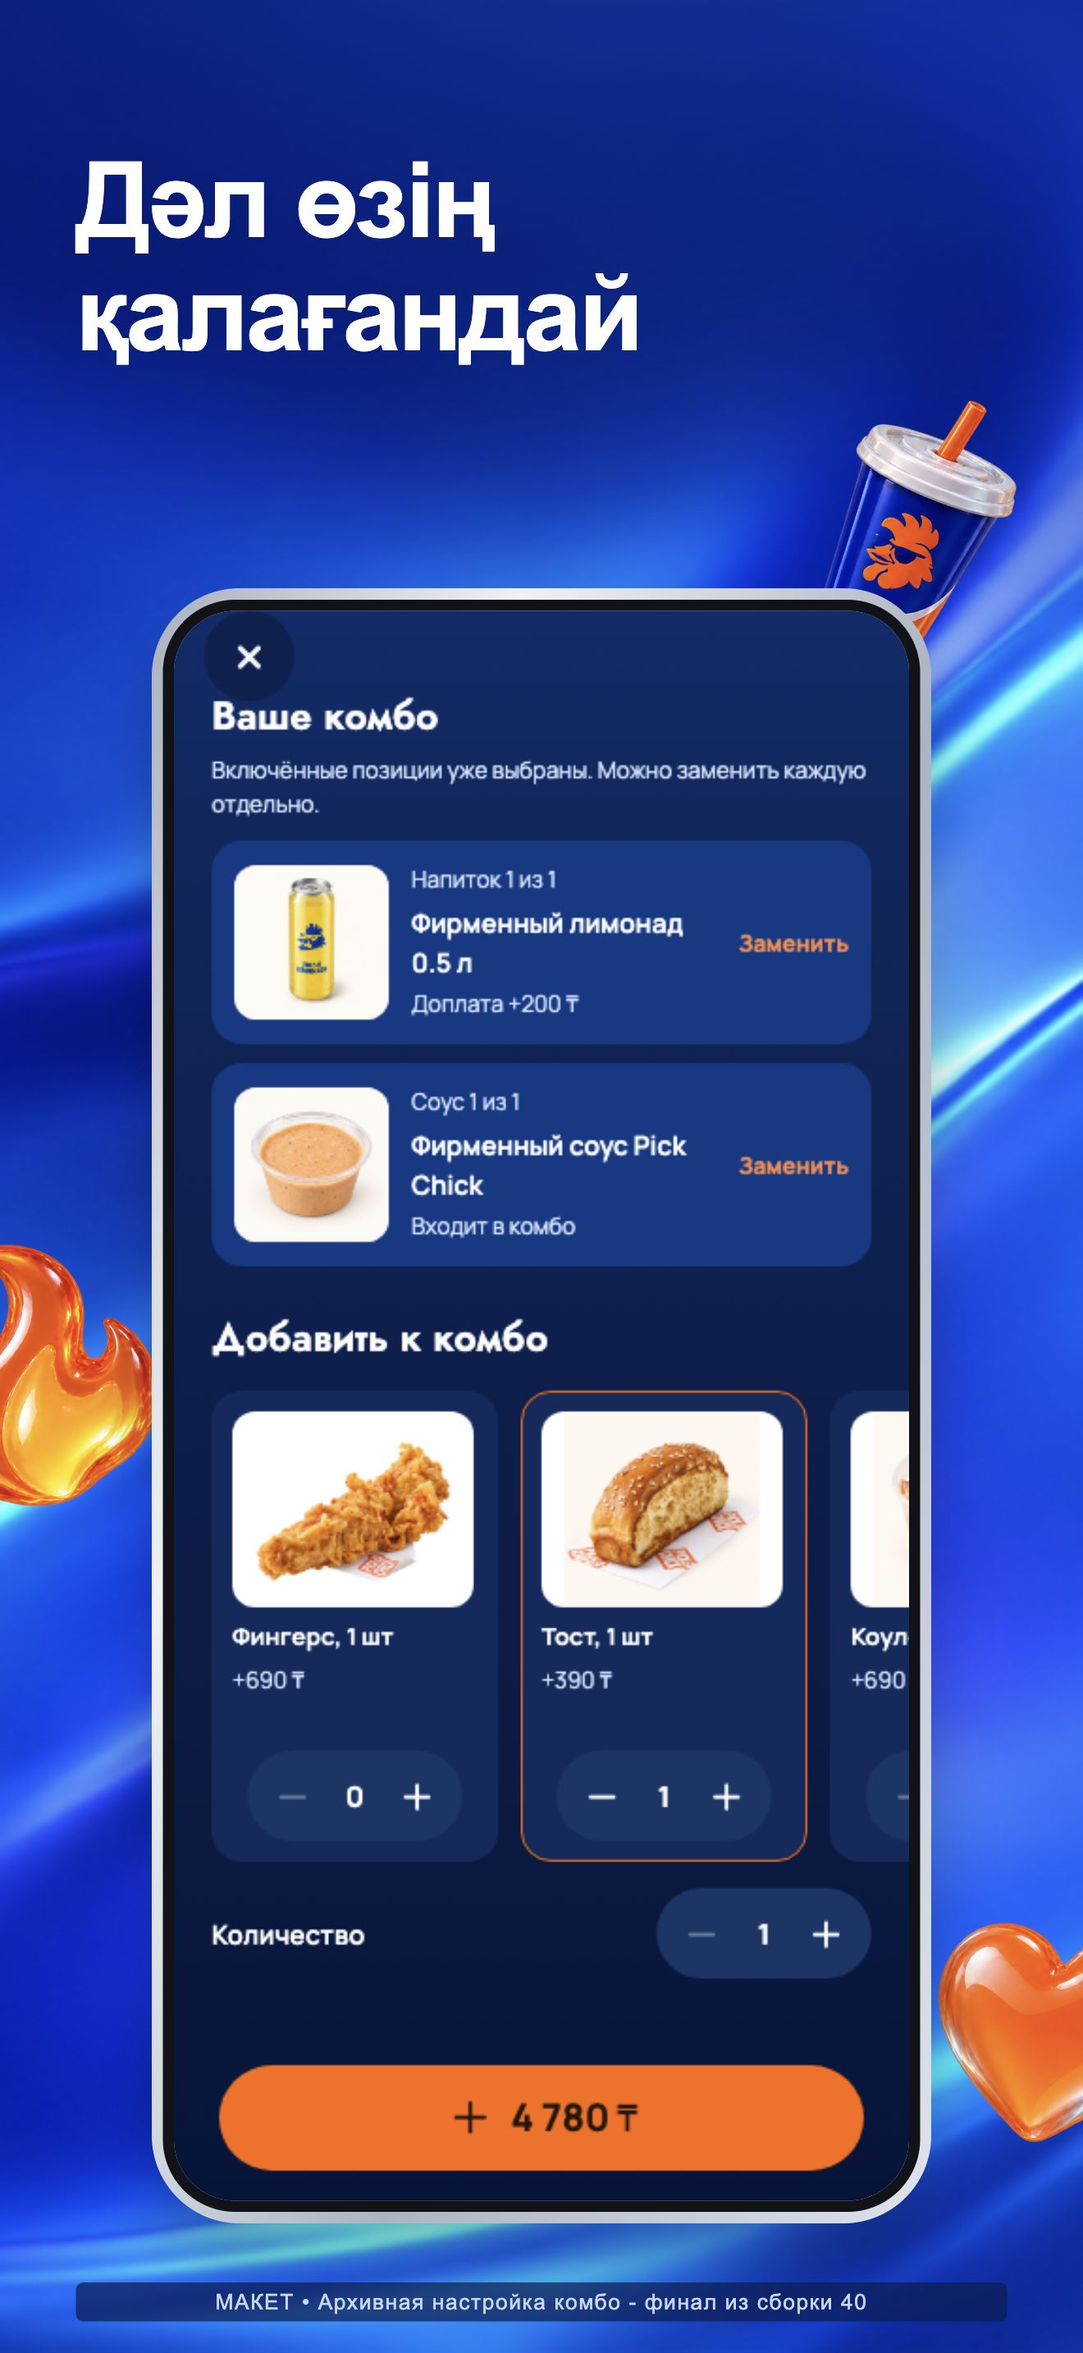
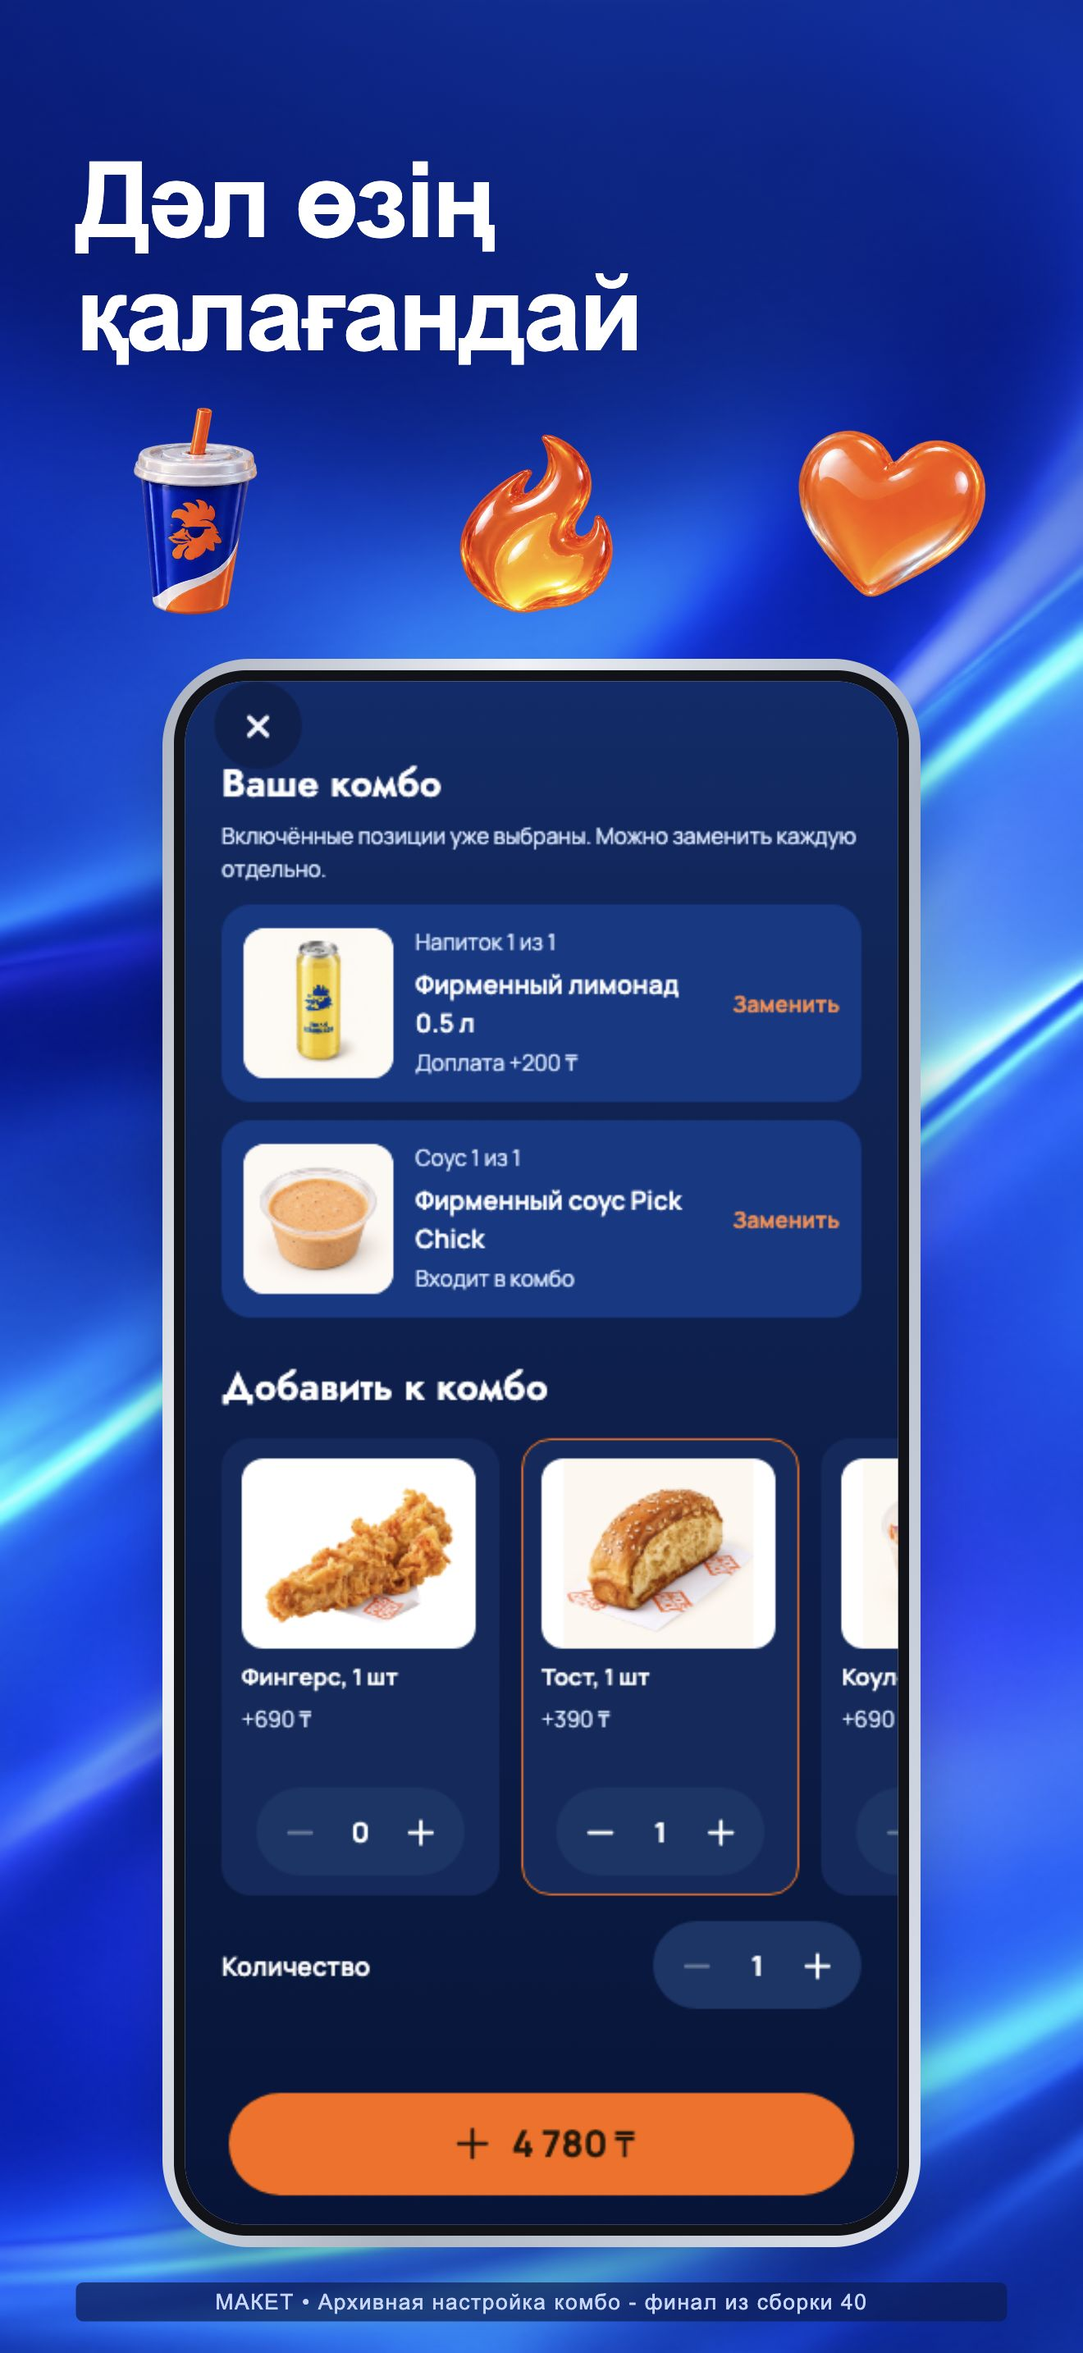
docs: keep screenshot stickers fully visible above phones

Changed region(s): [[0.0, 0.1552, 1.0, 0.962]]

diff --git a/docs/operations/appstore-refresh-1117/screenshots-preview-1118/index.html b/docs/operations/appstore-refresh-1117/screenshots-preview-1118/index.html
@@ -123,9 +123,9 @@
       .phone {
         position: absolute;
         z-index: 2;
-        width: 72%;
-        left: 14%;
-        top: 25%;
+        width: 70%;
+        left: 15%;
+        top: 28%;
         padding: 1.05cqw;
         border-radius: 8.1cqw;
         background: linear-gradient(110deg, #a8b0be, #eef1f6 27%, #aab4c3 60%, #dde3ed);
@@ -145,7 +145,7 @@
       }
       .motif {
         position: absolute;
-        z-index: 1;
+        z-index: 4;
         aspect-ratio: 1;
         background-image: url('art/brand-figures.png');
         background-size: 300% 200%;

diff --git a/docs/operations/appstore-refresh-1117/screenshots-preview-1118/README.md b/docs/operations/appstore-refresh-1117/screenshots-preview-1118/README.md
@@ -23,9 +23,9 @@ python3 -m http.server 8876 --bind 127.0.0.1 --directory /private/tmp/pickchick-
 
 ## Оформление и ограничения
 
-Актуальный фон - синий шелковистый перелив с бирюзовыми и фиолетовыми отражениями. По просьбе владельца коробка и стопка игровых коробок заменены фингерсами и бургером из каталога приложения. Остальные мотивы - Алекс в очках, пламя, стакан и сердце. На каждом кадре три разных мотива, расположенных за экраном. Принцип размещения изучен по Drinkit, персонажи и мотивы созданы для Pick Chick. Еда взята из существующих catalog-cutouts без изменений: фингерсы - ранее созданная иллюстрация каталога, бургер - материал макета владельца. Это не новая фотосъёмка. [Происхождение и хеши](art/provenance.json), [промпты](art/prompts.md).
+Актуальный фон - синий шелковистый перелив с бирюзовыми и фиолетовыми отражениями. По просьбе владельца коробка и стопка игровых коробок заменены фингерсами и бургером из каталога приложения. Остальные мотивы - Алекс в очках, пламя, стакан и сердце. На каждом кадре три разных мотива целиком видны между заголовком и телефоном. Слой стикеров выше телефона; ни один не обрезан краем и не перекрывает интерфейс или текст. Принцип размещения изучен по Drinkit, персонажи и мотивы созданы для Pick Chick. Еда взята из существующих catalog-cutouts без изменений: фингерсы - ранее созданная иллюстрация каталога, бургер - материал макета владельца. Это не новая фотосъёмка. [Происхождение и хеши](art/provenance.json), [промпты](art/prompts.md).
 
-Рамка нейтральная серебристая, без заявления о соответствии конкретному устройству. Внутри - только неизменённые исходные изображения интерфейса и еды. Казахские фразы целиком набраны Arial Bold: комплектные Jost и Manrope не содержат всех необходимых казахских глифов.
+Рамка нейтральная серебристая, без заявления о соответствии конкретному устройству. Телефон занимает 70% ширины и начинается на 28% высоты, оставляя место для целых стикеров. Внутри - только неизменённые исходные изображения интерфейса и еды. Казахские фразы целиком набраны Arial Bold: комплектные Jost и Manrope не содержат всех необходимых казахских глифов.
 
 [Новая переливающаяся обложка](../assets/header-iridescent-3840x1646.jpg) имеет размер 3840 x 1646. Для отдельного просмотра в локальной галерее добавить `?cover=1`. В App Store она не загружена.
 
@@ -36,6 +36,8 @@ python3 -m http.server 8876 --bind 127.0.0.1 --directory /private/tmp/pickchick-
 - Экран 5 использует старую короткую форму заказа. Для финала нужен согласованный пример нового статуса готовности из build40.
 
 ## Проверка экспортов и финальная приёмка
+
+После правки видимости проверены все 18 стикеров с учётом поворота: границы внутри полотна, пересечений с телефоном и заголовками нет, слой выше телефона. Обе полосы проверены визуально. [Измерения браузера](sticker-layout-check.json).
 
 Размеры всех шести отдельных JPG проверены: 1320 x 2868 px. Замечания независимого ревью исправлены: экспорт полных страниц устранил обрезку, пояснения о временных экранах добавлены в сами макеты и обзорные полосы. Ведущий агент визуально проверил обе итоговые полосы, точное совпадение шести подписей и SHA-256 неизменённых исходников. Комплект готов для согласования оформления; для публикации ещё нужна свежая съёмка.
 

diff --git a/docs/operations/appstore-refresh-1117/screenshots-plan.md b/docs/operations/appstore-refresh-1117/screenshots-plan.md
@@ -2,7 +2,7 @@
 
 Статус на 18.11: [макеты оформления](screenshots-preview-1118/README.md) с утверждённым вторым набором подписей готовы для просмотра владельцем. Архивные экраны подписаны как временные. Файлов для загрузки в Apple пока нет.
 
-Актуальное направление после правки владельца: насыщенный переливающийся синий фон с бирюзовыми и фиолетовыми отражениями. Вокруг телефона - разные мотивы Pick Chick (Алекс, пламя, фингерсы, стакан, сердце, бургер), по три на кадр. Это заменяет прежнее ограничение на фигурки за пределами телефона. Интерфейс и исходные изображения еды не перерисованы. Телефон 72% ширины, верхняя граница на 25% высоты; заголовок остаётся крупным и читаемым.
+Актуальное направление после правки владельца: насыщенный переливающийся синий фон с бирюзовыми и фиолетовыми отражениями. Между заголовком и телефоном - разные мотивы Pick Chick (Алекс, пламя, фингерсы, стакан, сердце, бургер), по три на кадр. Все стикеры видны целиком, находятся выше телефона по слою и не закрывают интерфейс или текст. Интерфейс и исходные изображения еды не перерисованы. Телефон 70% ширины, верхняя граница на 28% высоты; заголовок остаётся крупным и читаемым.
 
 | Порядок | Казахская подпись        | Смысл по-русски           | Финальный экран             |
 | ------- | ------------------------ | ------------------------- | --------------------------- |
@@ -27,7 +27,7 @@
 ## Компоновка
 
 - Первичный размер 1320 x 2868. Дополнительный 1206 x 2622 готовить только для соответствующей группы устройств в актуальном менеджере материалов.
-- Заголовок занимает верхние примерно 18% высоты. Телефон ниже, ширина 72% полотна; точный размер определяется пропорциями исходного снимка без растяжения.
+- Заголовок занимает верхние примерно 16% высоты. Затем идёт ряд целиком видимых стикеров. Телефон начинается на 28% высоты, ширина 70% полотна; точный размер определяется пропорциями исходного снимка без растяжения.
 - Проверить казахские Ә, Ғ, Қ, Ң, Ө, Ұ, Ү, Һ, І в используемом шрифте. Не допускать случайного смешения гарнитур из-за отсутствующих глифов.
 - Применять фон и рамку только снаружи снимка. Фотографии еды остаются исходными внутри приложения.
 - Просмотреть шесть кадров рядом и первые три в масштабе карточки App Store. Проверить читаемость заголовка и отсутствие обрезанных элементов.

diff --git a/docs/operations/appstore-refresh-1117/README.md b/docs/operations/appstore-refresh-1117/README.md
@@ -38,6 +38,10 @@
 
 По новой просьбе владельца три декоративные коробки заменены фингерсами, две стопки коробок - бургером. Использованы существующие прозрачные изображения из каталога приложения без изменения пикселей; их происхождение и SHA-256 сохранены. Подписи, интерфейсы, фон и обложка прежние. Проверены обе обзорные полосы, шесть экспортов 1320 x 2868 и неизменность исходных экранов. Новая версия макетов в Apple не загружена.
 
+## Стикеры целиком видны 18.11
+
+По просьбе владельца все стикеры вынесены из-за телефона в свободную область между заголовком и экраном. Слой стикеров выше телефона, края не обрезаются. Телефон уменьшен с 72% до 70% ширины и сдвинут с 25% до 28% высоты. Проверены 18 границ с учётом поворота: пересечений с телефоном и заголовком нет. Все шесть экспортов 1320 x 2868, подписи и исходные снимки неизменны. Обе полосы просмотрены, проверка компоновки без замечаний. Apple не менялся.
+
 ## Осталось
 
 Владелец отклонил прежние подписи и первый короткий вариант. Попросил самостоятельно предложить варианты по исследованию конкурентов. Владелец выбрал и утвердил второй, выразительный набор из captions-1118.md.
